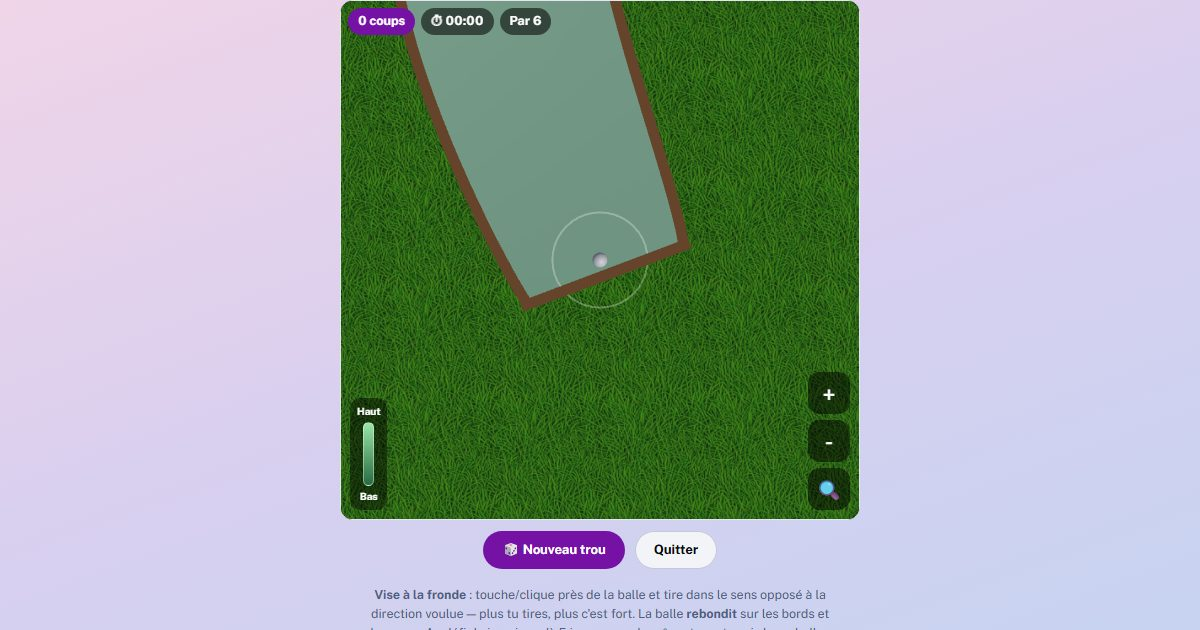
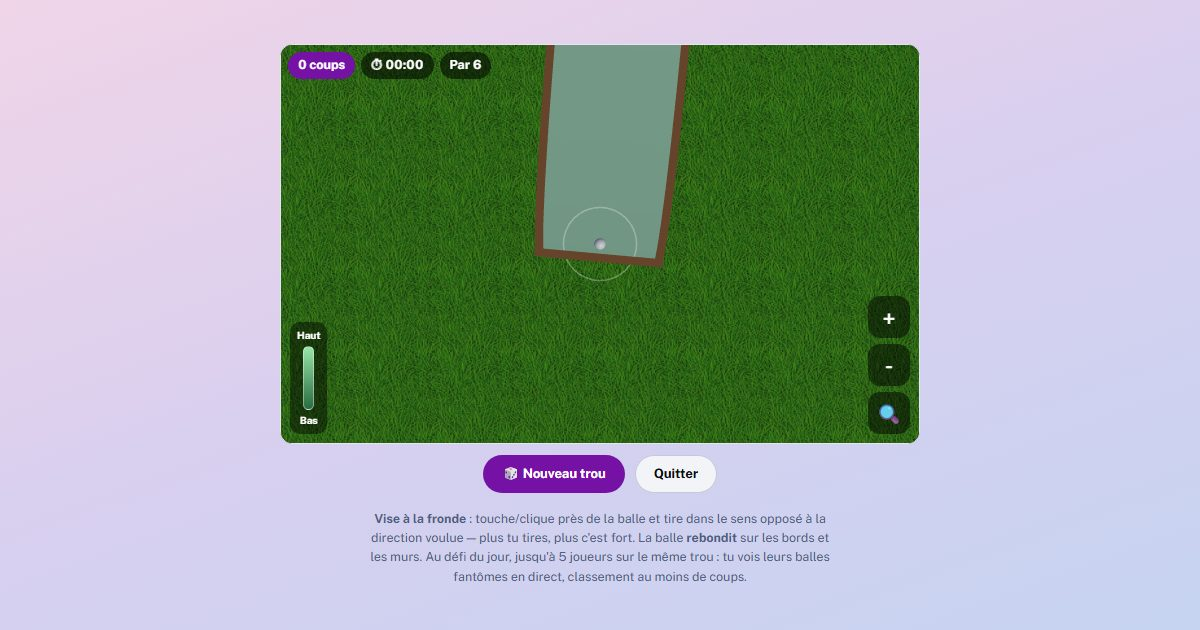
[CHANGED] Updated games

Changed region(s): [[0.2158, 0.0, 0.7708, 1.0]]

diff --git a/src/games/golf/GolfGame.tsx b/src/games/golf/GolfGame.tsx
@@ -347,6 +347,7 @@ export default function GolfGame({ gameId }: { gameId: string }) {
 	const spanRef = useRef(HALF_SPAN);
 	const appliedSpanRef = useRef(-1);
 	const fitSpanRef = useRef(HALF_SPAN);
+	const aspectRef = useRef(1); // canvas w/h so the ortho camera fills wide screens
 	const courseCenterRef = useRef({ x: 0, z: 0 });
 	const overviewRef = useRef(false);
 	const freeCamRef = useRef<{ x: number; z: number } | null>(null); // panned (free-look) camera centre
@@ -461,8 +462,9 @@ export default function GolfGame({ gameId }: { gameId: string }) {
 		const g = g3Ref.current;
 		const canvas = canvasRef.current;
 		if (!g || !canvas) return;
-		const css = canvas.clientWidth;
-		g.renderer.setSize(css, css, false);
+		const w = canvas.clientWidth, h = canvas.clientHeight || canvas.clientWidth;
+		aspectRef.current = w / h;
+		g.renderer.setSize(w, h, false);
 		appliedSpanRef.current = -1; // force the camera to re-project on the next frame
 	}, []);
 
@@ -540,7 +542,7 @@ export default function GolfGame({ gameId }: { gameId: string }) {
 		// Zoom: re-project only when the span changes.
 		const span = overviewRef.current ? fitSpanRef.current : spanRef.current;
 		if (span !== appliedSpanRef.current) {
-			g.camera.left = -span; g.camera.right = span; g.camera.top = span; g.camera.bottom = -span;
+			const a = aspectRef.current; g.camera.left = -span * a; g.camera.right = span * a; g.camera.top = span; g.camera.bottom = -span;
 			g.camera.updateProjectionMatrix();
 			appliedSpanRef.current = span;
 		}
@@ -775,7 +777,7 @@ export default function GolfGame({ gameId }: { gameId: string }) {
 		if (panningRef.current && freeCamRef.current) {
 			const canvas = canvasRef.current;
 			const span = spanRef.current;
-			const wpp = canvas ? (2 * span) / canvas.clientWidth : 0.1; // world units per screen pixel
+			const wpp = canvas ? (2 * span) / canvas.clientHeight : 0.1; // world units per screen pixel (square pixels)
 			freeCamRef.current.x -= (e.clientX - lastPanRef.current.x) * wpp;
 			freeCamRef.current.z -= (e.clientY - lastPanRef.current.y) * wpp;
 			lastPanRef.current = { x: e.clientX, y: e.clientY };
@@ -965,8 +967,13 @@ export default function GolfGame({ gameId }: { gameId: string }) {
 
 	useEffect(() => {
 		const onResize = () => resize();
+		const onFs = () => requestAnimationFrame(resize); // re-measure after the fullscreen box applies
 		window.addEventListener('resize', onResize);
+		document.addEventListener('fullscreenchange', onFs);
+		document.addEventListener('webkitfullscreenchange', onFs);
 		return () => {
+			document.removeEventListener('fullscreenchange', onFs);
+			document.removeEventListener('webkitfullscreenchange', onFs);
 			window.removeEventListener('resize', onResize);
 			stop();
 			lobbyRef.current?.leave();
@@ -1114,13 +1121,24 @@ export default function GolfGame({ gameId }: { gameId: string }) {
 /* ---------- Styles ---------- */
 
 const CSS = `
-.gf-root { --gf-accent: var(--accent-regular); width: 100%; max-width: 560px; margin-inline: auto; color: var(--gray-0); font-family: var(--font-body); }
-.gf-boardwrap { position: relative; width: 100%; max-width: 520px; margin-inline: auto; }
+.gf-root { --gf-accent: var(--accent-regular); width: 100%; max-width: 640px; margin-inline: auto; color: var(--gray-0); font-family: var(--font-body); }
+.gf-boardwrap { position: relative; width: 100%; aspect-ratio: 16 / 10; margin-inline: auto; }
 .gf-canvas {
-  width: 100%; aspect-ratio: 1 / 1; display: block; background: #0d1117;
+  width: 100%; height: 100%; display: block; background: #0d1117;
   border: 1px solid var(--gray-800); border-radius: 12px;
   touch-action: none; -webkit-tap-highlight-color: transparent; -webkit-touch-callout: none; user-select: none;
 }
+/* Site global fullscreen → the course fills the screen; controls stay overlaid. */
+.game-page:fullscreen .gf-root { max-width: none; width: 100%; height: 100%; display: flex; flex-direction: column; }
+.game-page:-webkit-full-screen .gf-root { max-width: none; width: 100%; height: 100%; display: flex; flex-direction: column; }
+.game-page:fullscreen .gf-boardwrap { flex: 1; aspect-ratio: auto; }
+.game-page:-webkit-full-screen .gf-boardwrap { flex: 1; aspect-ratio: auto; }
+.game-page:fullscreen .gf-canvas { border-radius: 0; border: none; }
+.game-page:-webkit-full-screen .gf-canvas { border-radius: 0; border: none; }
+.game-page:fullscreen .gf-help { display: none; }
+.game-page:-webkit-full-screen .gf-help { display: none; }
+.game-page:fullscreen .gf-board { top: 54px; }
+.game-page:-webkit-full-screen .gf-board { top: 54px; }
 .gf-labels { position: absolute; inset: 0; pointer-events: none; overflow: hidden; }
 .gf-label { position: absolute; transform: translate(-50%, -120%); white-space: nowrap; font-size: 11px; font-weight: 700; color: #fff; background: rgba(0,0,0,0.55); padding: 1px 6px; border-radius: 999px; }
 .gf-celebrate { position: absolute; inset: 0; pointer-events: none; }